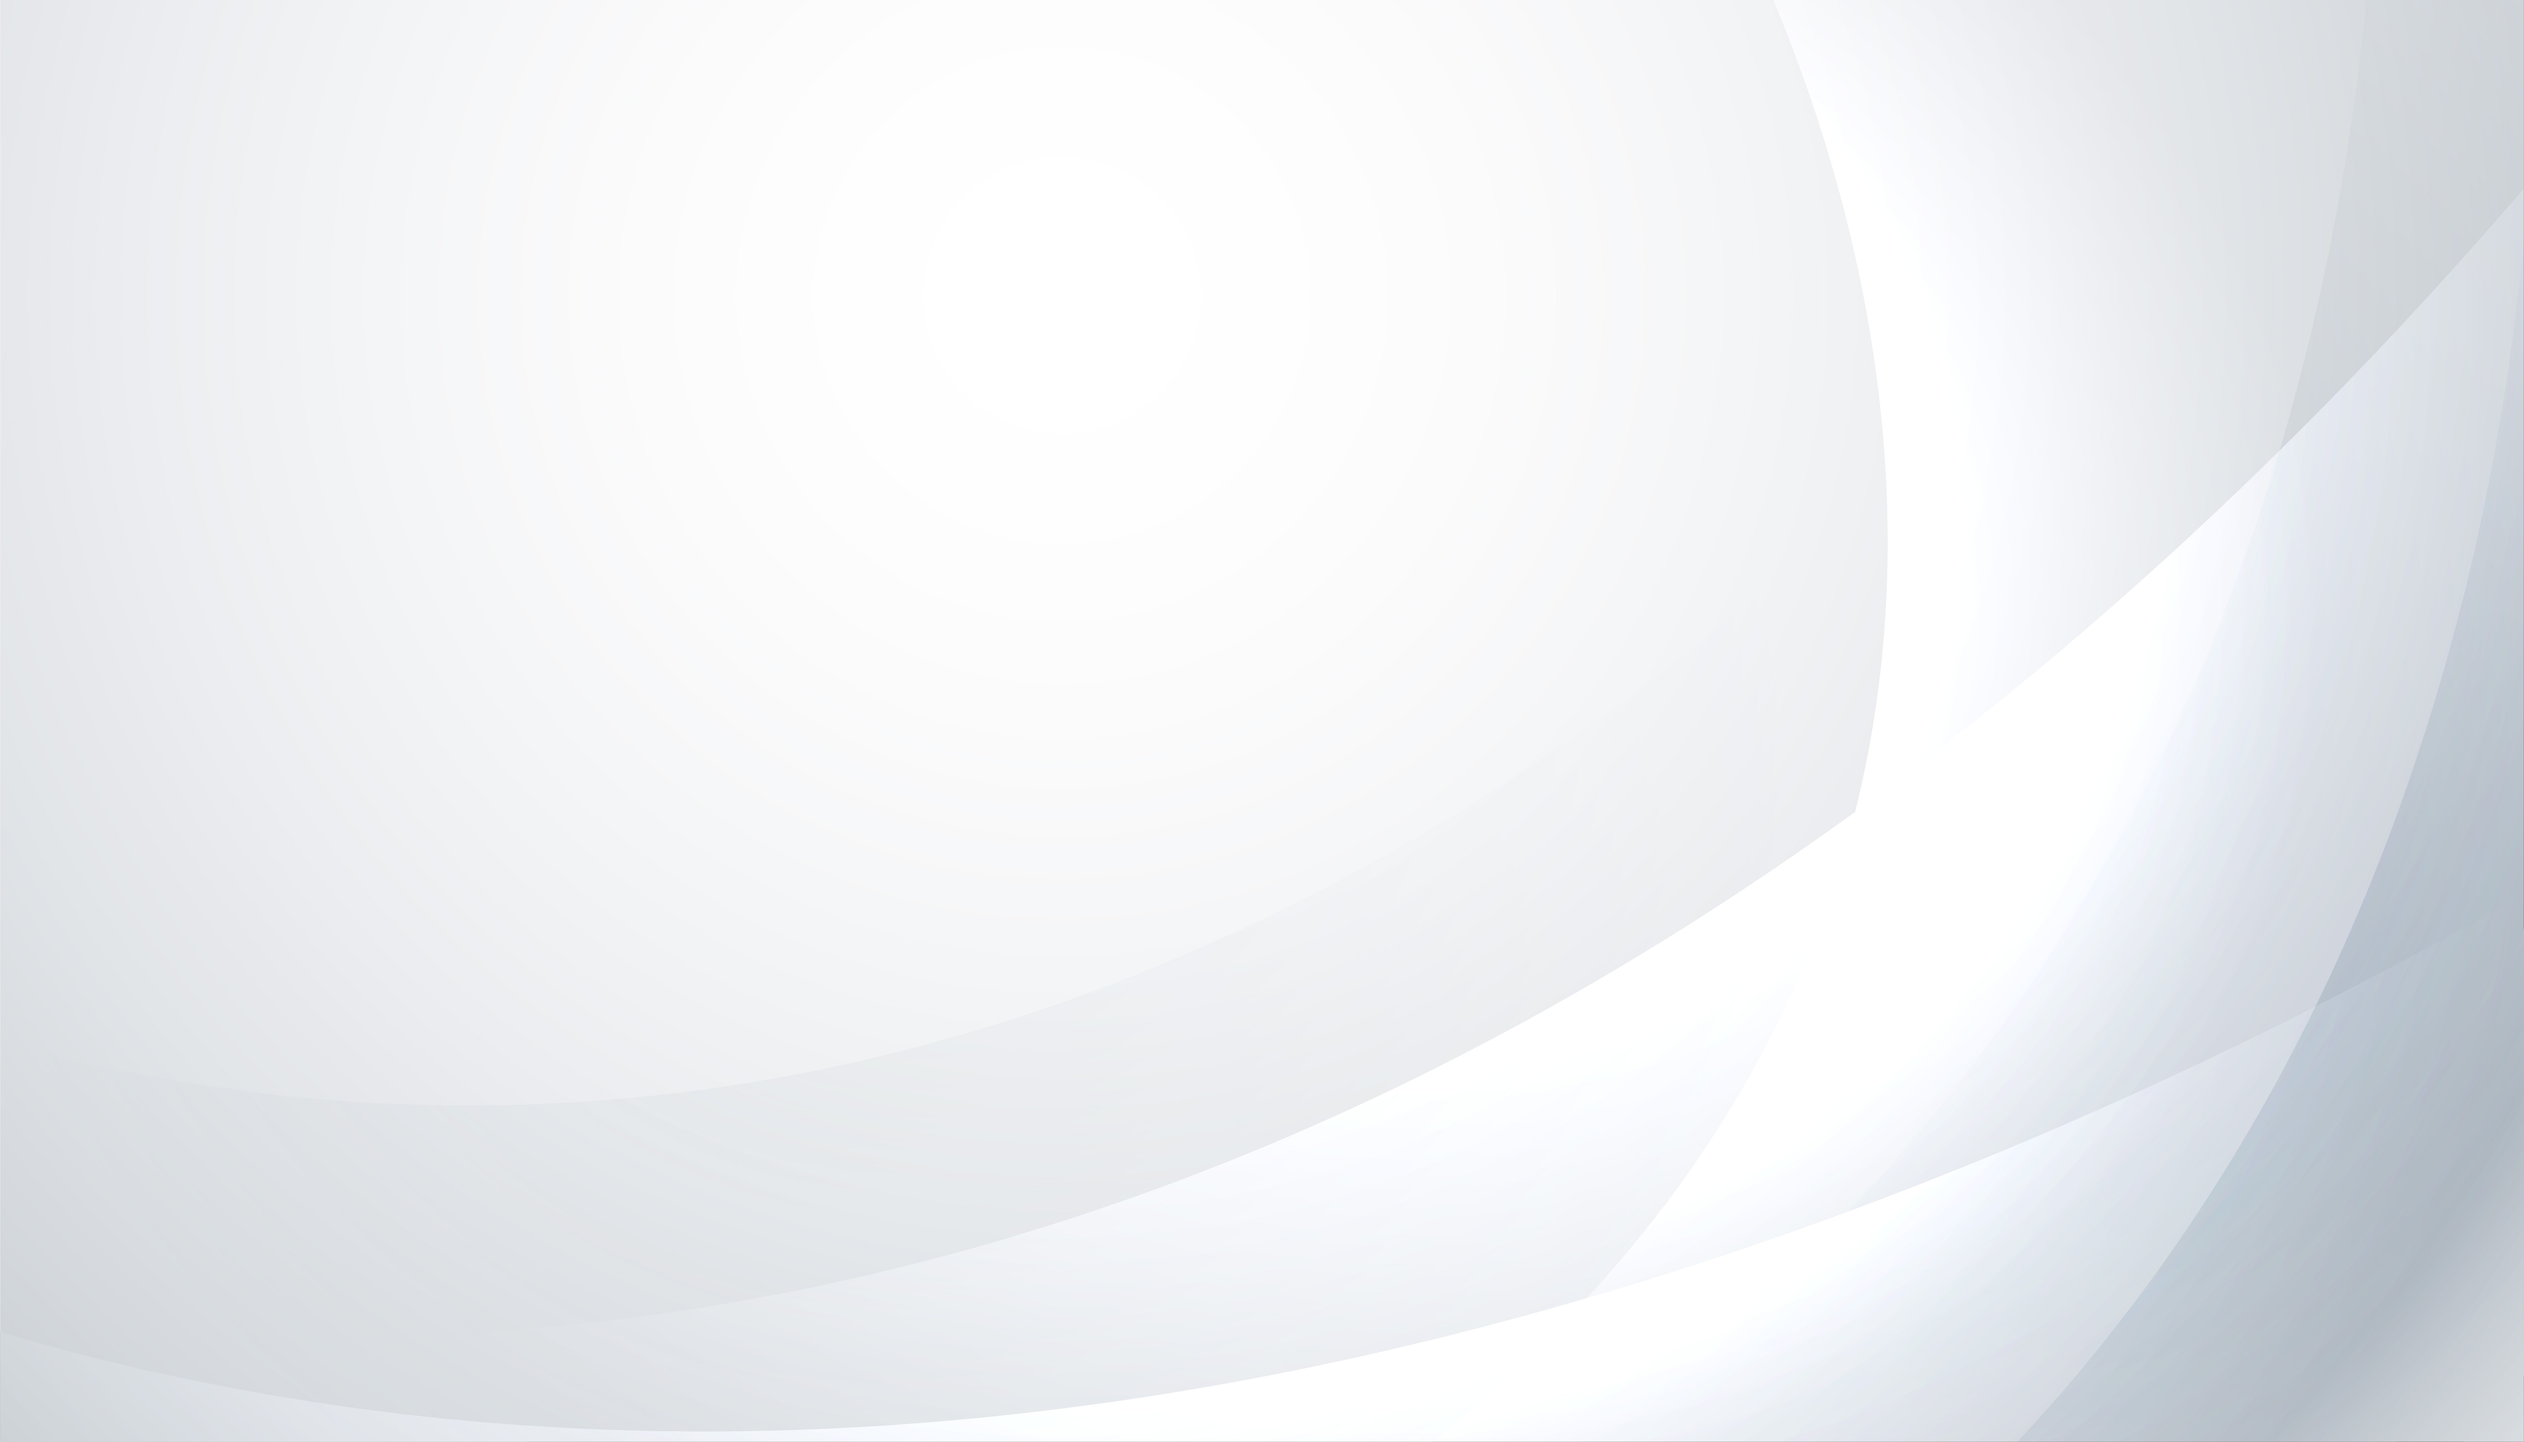
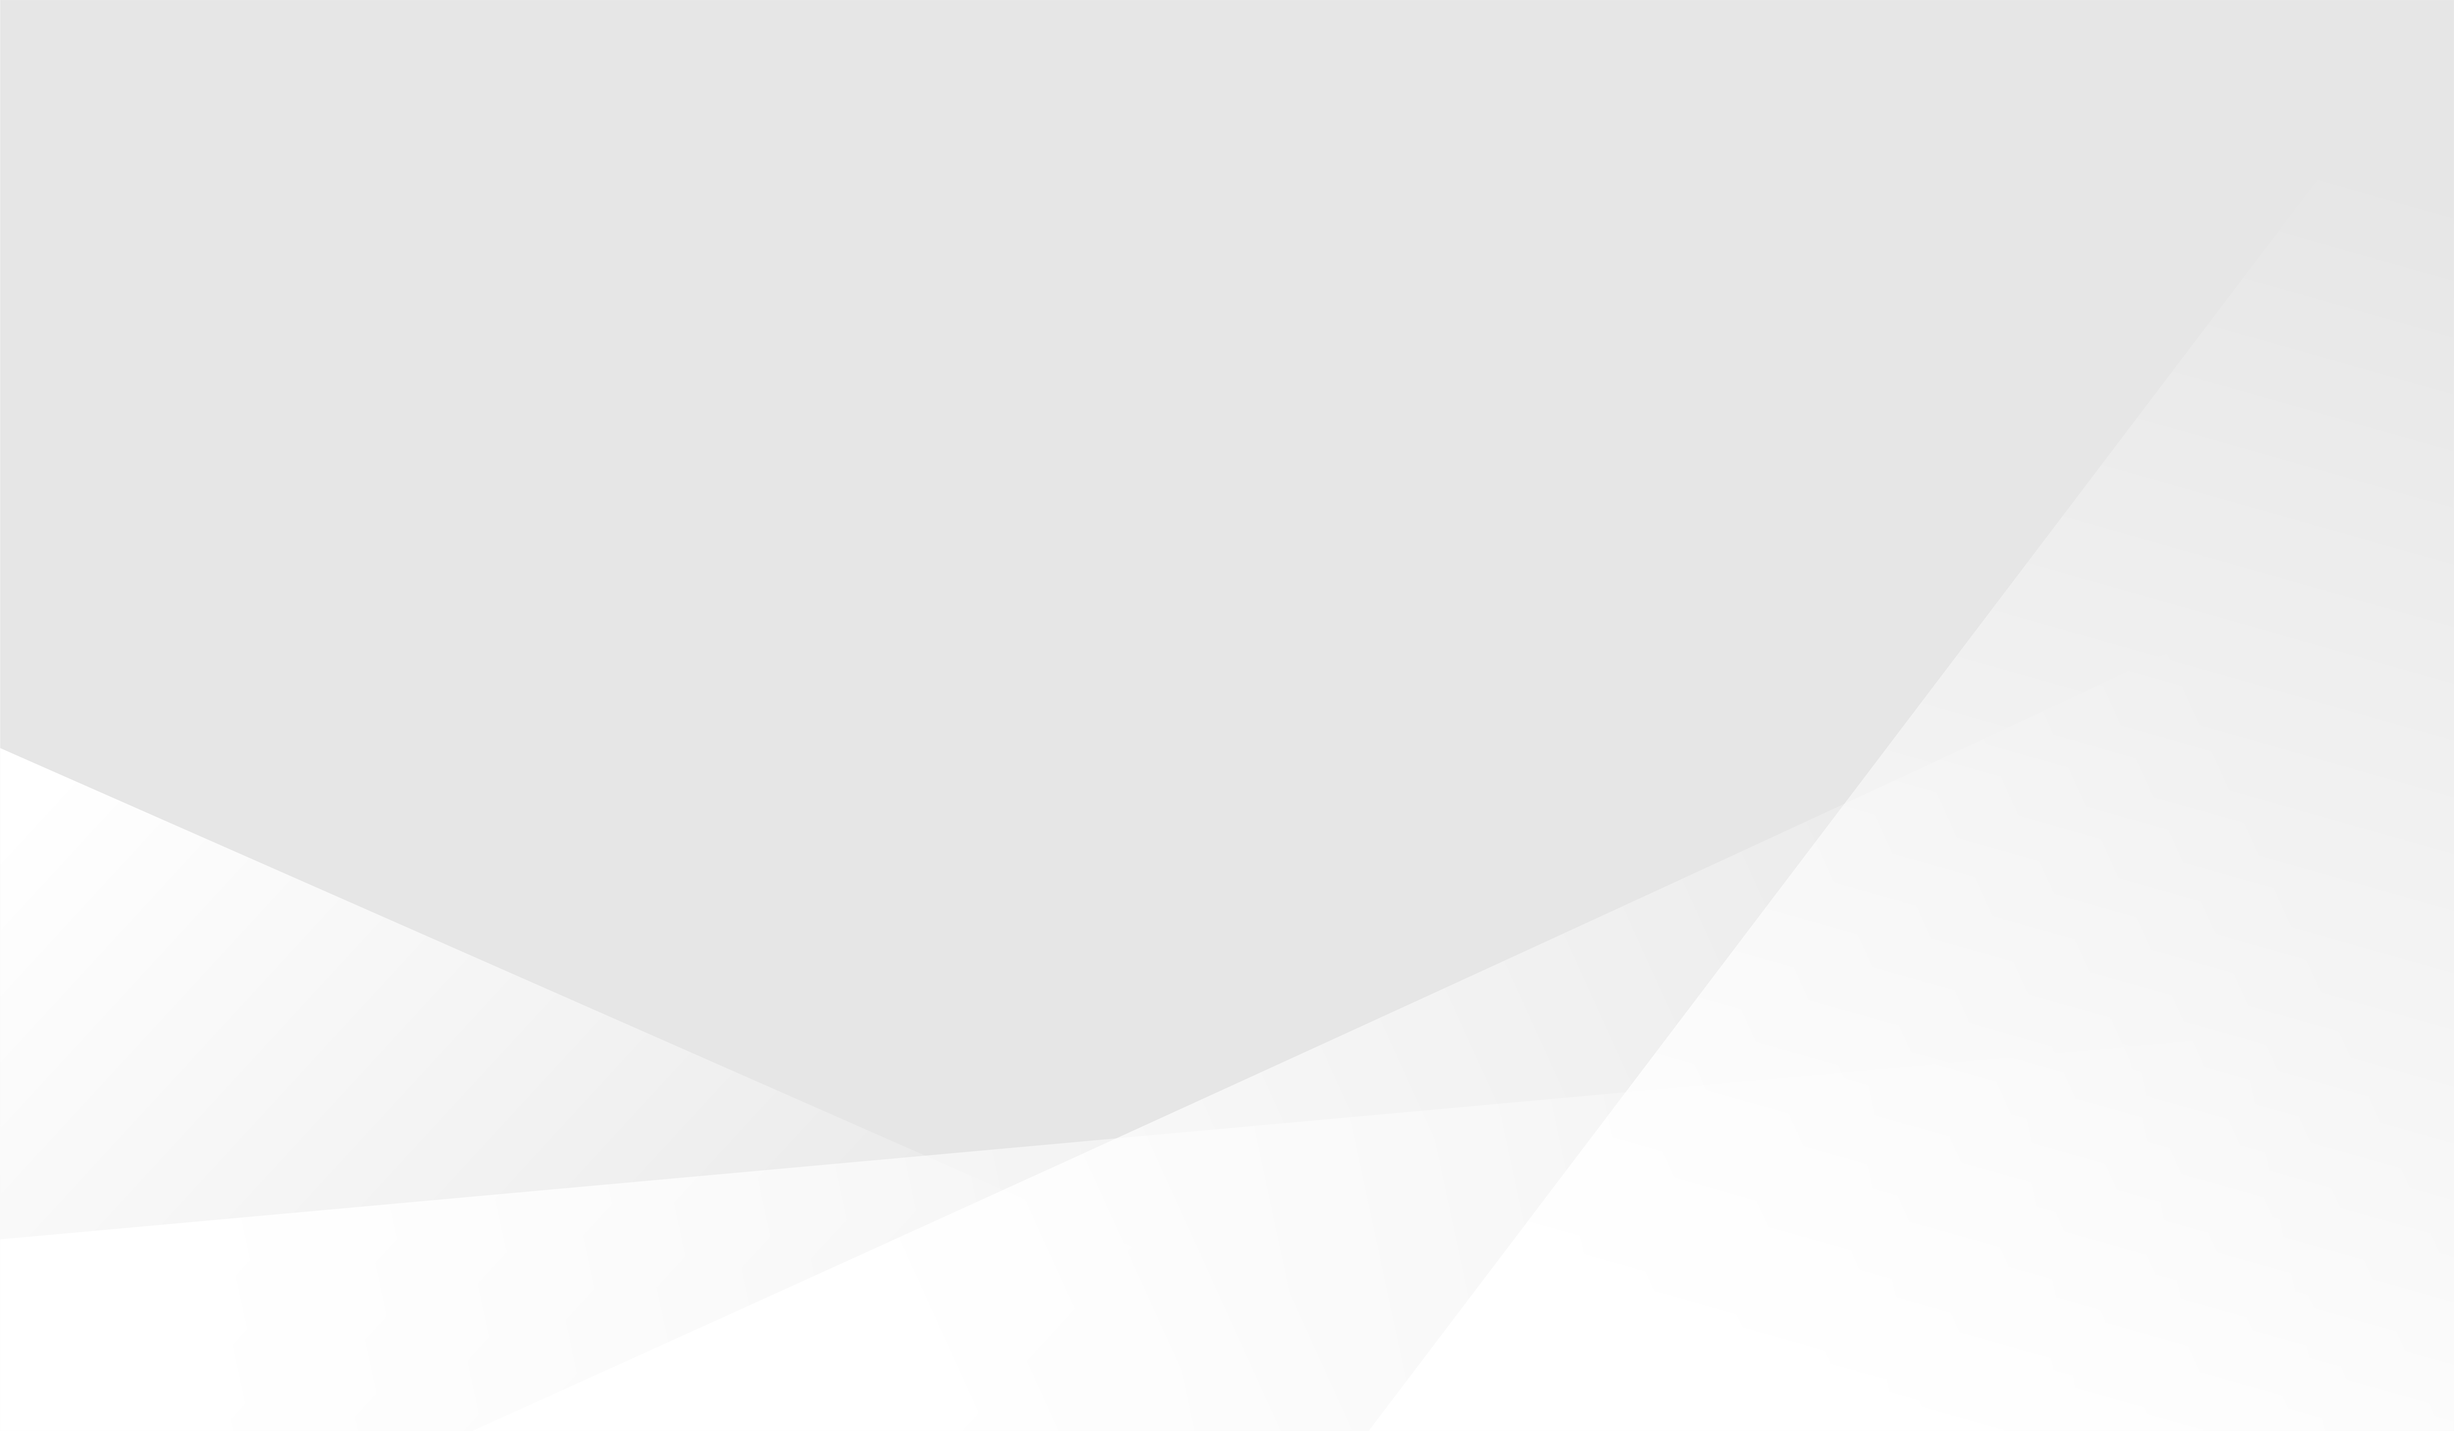
add background

diff --git a/frontend/src/pages/Auth/LoginPage.jsx b/frontend/src/pages/Auth/LoginPage.jsx
@@ -59,8 +59,10 @@ const LoginPage = () => {
   };
 
   return (
-    <div className="min-h-screen flex items-center justify-center bg-gray-100 p-4">
-      <div className="w-full max-w-md bg-white rounded-xl shadow-lg overflow-hidden">
+    <div
+      className="min-h-screen flex items-center justify-center bg-cover bg-center bg-no-repeat p-4"
+      style={{ backgroundImage: "url('/bg.jpg')" }}
+    >      <div className="w-full max-w-md bg-white rounded-xl shadow-lg overflow-hidden">
         <div className="p-6 sm:p-8">
           {/* 🏠 Back to Homepage Button */}
           <div className="mb-3">
